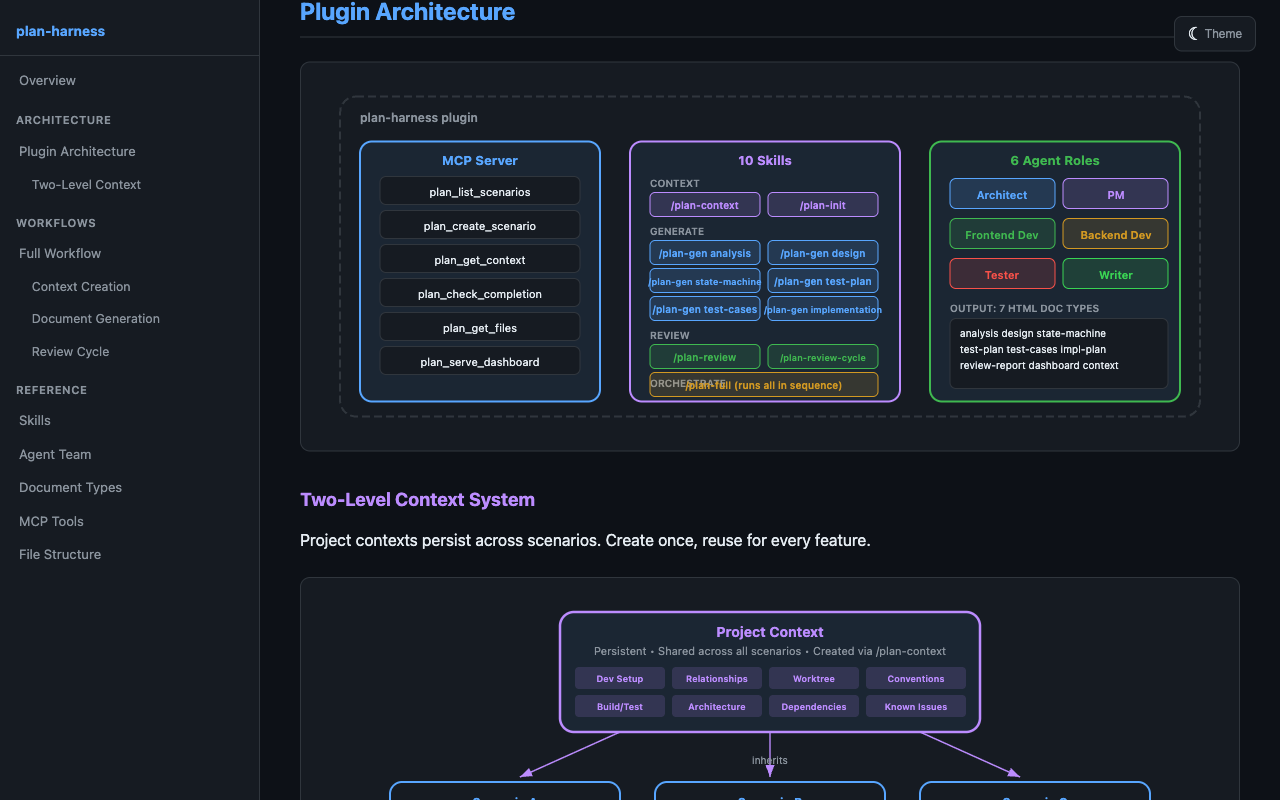
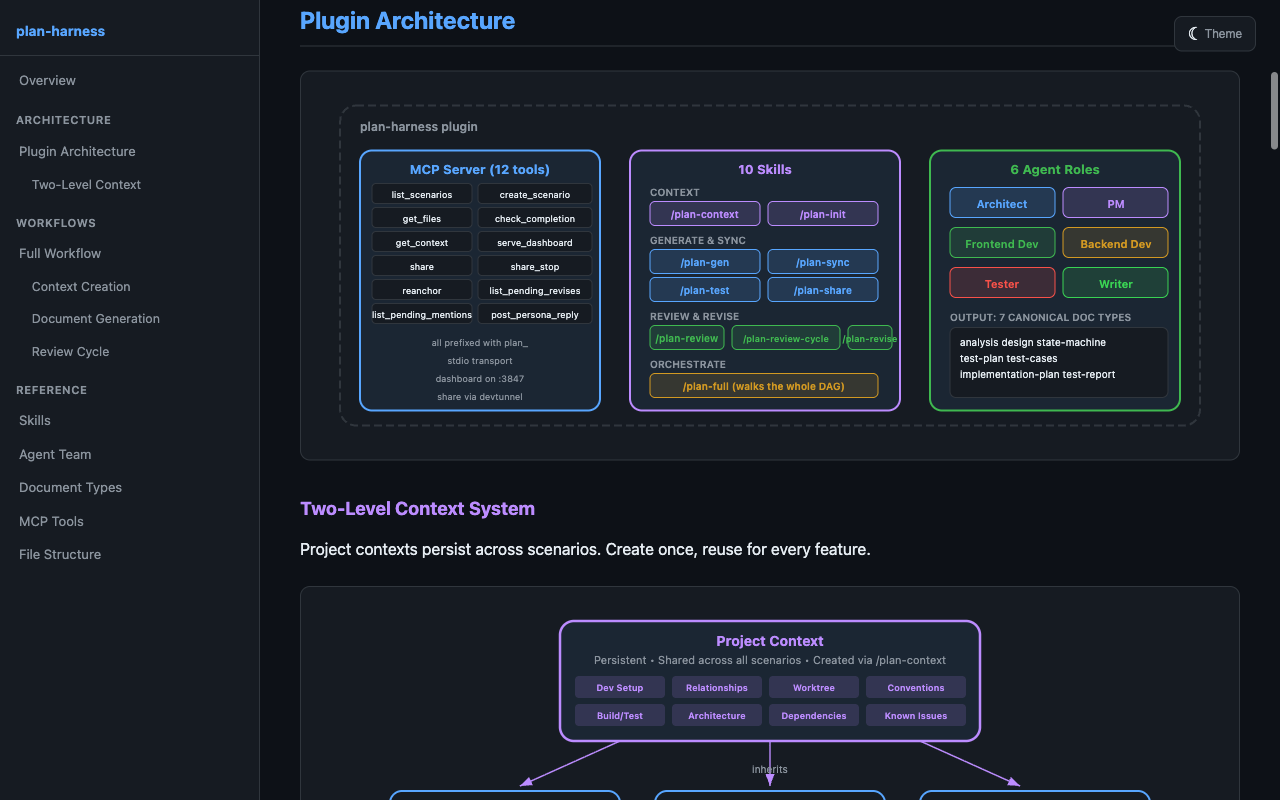
docs: refresh overview.html + context-design.md + screenshots for 1.3.2 (#9)
overview.html was still reflecting the pre-1.3.0 plugin shape — v1.0.0
badge, 6-of-12 MCP tools, 6 per-type /plan-gen skill boxes, a 9-item
list claimed as "7 doc types" with review-report / context / dashboard
mixed in, and the old analysis-as-codebase-tour skill card. Bring it in
line with what actually ships in 1.3.2:

- Version badge → v1.3.2.
- MCP Server box now lists all 12 tools (2-column compact layout).
- 10 Skills box collapsed the 6 per-type /plan-gen entries into the
  unified /plan-gen and added the real 10: /plan-context, /plan-init,
  /plan-gen, /plan-sync, /plan-test, /plan-share, /plan-review,
  /plan-review-cycle, /plan-revise, /plan-full.
- "OUTPUT" block now shows the canonical 7: analysis, design,
  state-machine, test-plan, test-cases, implementation-plan,
  test-report (review-report called out separately as a /plan-review
  side product; dashboard.html is a /plan-full landing page).
- /plan-gen analysis skill card: agents changed from
  Architect+Frontend+Backend+Tester+Writer → PM+Architect+Writer;
  description is the hybrid problem-statement + code-logic walk.
- Phase 2 Document Generation SVG: analysis agents label fixed.
- Document Types SVG + table: dropped `context` node, replaced
  `review-report` terminus with `test-report` (live E2E).
- MCP Tools table expanded from 6 → 12 rows.
- File Structure: added dist/index.js and scripts/dev-dashboard.mjs,
  dropped stale line counts, added comment-manager.js +
  revise-dispatcher.js.

Also:
[…]

diff --git a/docs/overview.html b/docs/overview.html
@@ -128,7 +128,7 @@ body.nav-open .side-nav { transform: translateX(0); }
 <h1>plan-harness</h1>
 <p class="meta">Claude Code Plugin &mdash; Structured Project Planning with Agent Teams<br>
 10 skills &bull; 12 MCP tools &bull; 6 agent roles &bull; 7 document types<br>
-<span class="badge badge-blue">v1.0.0</span> <span class="badge badge-purple">Interactive HTML</span> <span class="badge badge-green">Dark/Light Theme</span></p>
+<span class="badge badge-blue">v1.3.2</span> <span class="badge badge-purple">Interactive HTML</span> <span class="badge badge-green">Dark/Light Theme</span></p>
 
 <!-- ===== SECTION 1: Overview ===== -->
 <h2 id="s1">Overview</h2>
@@ -189,54 +189,68 @@ body.nav-open .side-nav { transform: translateX(0); }
 
   <!-- MCP Server box -->
   <rect x="30" y="55" width="240" height="260" rx="12" fill="var(--glow)" stroke="var(--accent)" stroke-width="2"/>
-  <text x="150" y="78" text-anchor="middle" fill="var(--accent)" font-weight="700" font-size="13">MCP Server</text>
-  <!-- Tools -->
-  <rect x="50" y="90" width="200" height="28" rx="6" fill="var(--svg-node)" stroke="var(--svg-node-stroke)" stroke-width="1"/>
-  <text x="150" y="109" text-anchor="middle" fill="var(--text)" font-size="11">plan_list_scenarios</text>
-  <rect x="50" y="124" width="200" height="28" rx="6" fill="var(--svg-node)" stroke="var(--svg-node-stroke)" stroke-width="1"/>
-  <text x="150" y="143" text-anchor="middle" fill="var(--text)" font-size="11">plan_create_scenario</text>
-  <rect x="50" y="158" width="200" height="28" rx="6" fill="var(--svg-node)" stroke="var(--svg-node-stroke)" stroke-width="1"/>
-  <text x="150" y="177" text-anchor="middle" fill="var(--text)" font-size="11">plan_get_context</text>
-  <rect x="50" y="192" width="200" height="28" rx="6" fill="var(--svg-node)" stroke="var(--svg-node-stroke)" stroke-width="1"/>
-  <text x="150" y="211" text-anchor="middle" fill="var(--text)" font-size="11">plan_check_completion</text>
-  <rect x="50" y="226" width="200" height="28" rx="6" fill="var(--svg-node)" stroke="var(--svg-node-stroke)" stroke-width="1"/>
-  <text x="150" y="245" text-anchor="middle" fill="var(--text)" font-size="11">plan_get_files</text>
-  <rect x="50" y="260" width="200" height="28" rx="6" fill="var(--svg-node)" stroke="var(--svg-node-stroke)" stroke-width="1"/>
-  <text x="150" y="279" text-anchor="middle" fill="var(--text)" font-size="11">plan_serve_dashboard</text>
+  <text x="150" y="78" text-anchor="middle" fill="var(--accent)" font-weight="700" font-size="13">MCP Server (12 tools)</text>
+  <!-- Tools: 2 columns of compact rows -->
+  <rect x="42" y="88" width="100" height="20" rx="4" fill="var(--svg-node)" stroke="var(--svg-node-stroke)" stroke-width="1"/>
+  <text x="92" y="102" text-anchor="middle" fill="var(--text)" font-size="9">list_scenarios</text>
+  <rect x="148" y="88" width="114" height="20" rx="4" fill="var(--svg-node)" stroke="var(--svg-node-stroke)" stroke-width="1"/>
+  <text x="205" y="102" text-anchor="middle" fill="var(--text)" font-size="9">create_scenario</text>
+  <rect x="42" y="112" width="100" height="20" rx="4" fill="var(--svg-node)" stroke="var(--svg-node-stroke)" stroke-width="1"/>
+  <text x="92" y="126" text-anchor="middle" fill="var(--text)" font-size="9">get_files</text>
+  <rect x="148" y="112" width="114" height="20" rx="4" fill="var(--svg-node)" stroke="var(--svg-node-stroke)" stroke-width="1"/>
+  <text x="205" y="126" text-anchor="middle" fill="var(--text)" font-size="9">check_completion</text>
+  <rect x="42" y="136" width="100" height="20" rx="4" fill="var(--svg-node)" stroke="var(--svg-node-stroke)" stroke-width="1"/>
+  <text x="92" y="150" text-anchor="middle" fill="var(--text)" font-size="9">get_context</text>
+  <rect x="148" y="136" width="114" height="20" rx="4" fill="var(--svg-node)" stroke="var(--svg-node-stroke)" stroke-width="1"/>
+  <text x="205" y="150" text-anchor="middle" fill="var(--text)" font-size="9">serve_dashboard</text>
+  <rect x="42" y="160" width="100" height="20" rx="4" fill="var(--svg-node)" stroke="var(--svg-node-stroke)" stroke-width="1"/>
+  <text x="92" y="174" text-anchor="middle" fill="var(--text)" font-size="9">share</text>
+  <rect x="148" y="160" width="114" height="20" rx="4" fill="var(--svg-node)" stroke="var(--svg-node-stroke)" stroke-width="1"/>
+  <text x="205" y="174" text-anchor="middle" fill="var(--text)" font-size="9">share_stop</text>
+  <rect x="42" y="184" width="100" height="20" rx="4" fill="var(--svg-node)" stroke="var(--svg-node-stroke)" stroke-width="1"/>
+  <text x="92" y="198" text-anchor="middle" fill="var(--text)" font-size="9">reanchor</text>
+  <rect x="148" y="184" width="114" height="20" rx="4" fill="var(--svg-node)" stroke="var(--svg-node-stroke)" stroke-width="1"/>
+  <text x="205" y="198" text-anchor="middle" fill="var(--text)" font-size="9">list_pending_revises</text>
+  <rect x="42" y="208" width="100" height="20" rx="4" fill="var(--svg-node)" stroke="var(--svg-node-stroke)" stroke-width="1"/>
+  <text x="92" y="222" text-anchor="middle" fill="var(--text)" font-size="9">list_pending_mentions</text>
+  <rect x="148" y="208" width="114" height="20" rx="4" fill="var(--svg-node)" stroke="var(--svg-node-stroke)" stroke-width="1"/>
+  <text x="205" y="222" text-anchor="middle" fill="var(--text)" font-size="9">post_persona_reply</text>
+  <text x="150" y="250" text-anchor="middle" fill="var(--muted)" font-size="9">all prefixed with plan_</text>
+  <text x="150" y="268" text-anchor="middle" fill="var(--muted)" font-size="9">stdio transport</text>
+  <text x="150" y="286" text-anchor="middle" fill="var(--muted)" font-size="9">dashboard on :3847</text>
+  <text x="150" y="304" text-anchor="middle" fill="var(--muted)" font-size="9">share via devtunnel</text>
 
   <!-- Skills box -->
   <rect x="300" y="55" width="270" height="260" rx="12" fill="var(--glow)" stroke="var(--purple)" stroke-width="2"/>
   <text x="435" y="78" text-anchor="middle" fill="var(--purple)" font-weight="700" font-size="13">10 Skills</text>
-  <!-- Skill groups -->
+
   <text x="320" y="100" fill="var(--muted)" font-size="10" font-weight="600">CONTEXT</text>
   <rect x="320" y="106" width="110" height="24" rx="5" fill="var(--badge-purple-bg)" stroke="var(--purple)" stroke-width="1"/>
   <text x="375" y="122" text-anchor="middle" fill="var(--purple)" font-size="10" font-weight="600">/plan-context</text>
   <rect x="438" y="106" width="110" height="24" rx="5" fill="var(--badge-purple-bg)" stroke="var(--purple)" stroke-width="1"/>
   <text x="493" y="122" text-anchor="middle" fill="var(--purple)" font-size="10" font-weight="600">/plan-init</text>
 
-  <text x="320" y="148" fill="var(--muted)" font-size="10" font-weight="600">GENERATE</text>
+  <text x="320" y="148" fill="var(--muted)" font-size="10" font-weight="600">GENERATE &amp; SYNC</text>
   <rect x="320" y="154" width="110" height="24" rx="5" fill="var(--badge-blue-bg)" stroke="var(--accent)" stroke-width="1"/>
-  <text x="375" y="170" text-anchor="middle" fill="var(--accent)" font-size="10" font-weight="600">/plan-gen analysis</text>
+  <text x="375" y="170" text-anchor="middle" fill="var(--accent)" font-size="10" font-weight="600">/plan-gen</text>
   <rect x="438" y="154" width="110" height="24" rx="5" fill="var(--badge-blue-bg)" stroke="var(--accent)" stroke-width="1"/>
-  <text x="493" y="170" text-anchor="middle" fill="var(--accent)" font-size="10" font-weight="600">/plan-gen design</text>
+  <text x="493" y="170" text-anchor="middle" fill="var(--accent)" font-size="10" font-weight="600">/plan-sync</text>
   <rect x="320" y="182" width="110" height="24" rx="5" fill="var(--badge-blue-bg)" stroke="var(--accent)" stroke-width="1"/>
-  <text x="375" y="198" text-anchor="middle" fill="var(--accent)" font-size="9" font-weight="600">/plan-gen state-machine</text>
+  <text x="375" y="198" text-anchor="middle" fill="var(--accent)" font-size="10" font-weight="600">/plan-test</text>
   <rect x="438" y="182" width="110" height="24" rx="5" fill="var(--badge-blue-bg)" stroke="var(--accent)" stroke-width="1"/>
-  <text x="493" y="198" text-anchor="middle" fill="var(--accent)" font-size="10" font-weight="600">/plan-gen test-plan</text>
-  <rect x="320" y="210" width="110" height="24" rx="5" fill="var(--badge-blue-bg)" stroke="var(--accent)" stroke-width="1"/>
-  <text x="375" y="226" text-anchor="middle" fill="var(--accent)" font-size="10" font-weight="600">/plan-gen test-cases</text>
-  <rect x="438" y="210" width="110" height="24" rx="5" fill="var(--badge-blue-bg)" stroke="var(--accent)" stroke-width="1"/>
-  <text x="493" y="226" text-anchor="middle" fill="var(--accent)" font-size="9" font-weight="600">/plan-gen implementation</text>
+  <text x="493" y="198" text-anchor="middle" fill="var(--accent)" font-size="10" font-weight="600">/plan-share</text>
 
-  <text x="320" y="252" fill="var(--muted)" font-size="10" font-weight="600">REVIEW</text>
-  <rect x="320" y="258" width="110" height="24" rx="5" fill="var(--badge-green-bg)" stroke="var(--green)" stroke-width="1"/>
-  <text x="375" y="274" text-anchor="middle" fill="var(--green)" font-size="10" font-weight="600">/plan-review</text>
-  <rect x="438" y="258" width="110" height="24" rx="5" fill="var(--badge-green-bg)" stroke="var(--green)" stroke-width="1"/>
-  <text x="493" y="274" text-anchor="middle" fill="var(--green)" font-size="9" font-weight="600">/plan-review-cycle</text>
+  <text x="320" y="224" fill="var(--muted)" font-size="10" font-weight="600">REVIEW &amp; REVISE</text>
+  <rect x="320" y="230" width="74" height="24" rx="5" fill="var(--badge-green-bg)" stroke="var(--green)" stroke-width="1"/>
+  <text x="357" y="246" text-anchor="middle" fill="var(--green)" font-size="10" font-weight="600">/plan-review</text>
+  <rect x="402" y="230" width="108" height="24" rx="5" fill="var(--badge-green-bg)" stroke="var(--green)" stroke-width="1"/>
+  <text x="456" y="246" text-anchor="middle" fill="var(--green)" font-size="9" font-weight="600">/plan-review-cycle</text>
+  <rect x="518" y="230" width="44" height="24" rx="5" fill="var(--badge-green-bg)" stroke="var(--green)" stroke-width="1"/>
+  <text x="540" y="246" text-anchor="middle" fill="var(--green)" font-size="9" font-weight="600">/plan-revise</text>
 
-  <text x="320" y="300" fill="var(--muted)" font-size="10" font-weight="600">ORCHESTRATE</text>
-  <rect x="320" y="286" width="228" height="24" rx="5" fill="var(--badge-yellow-bg)" stroke="var(--yellow)" stroke-width="1"/>
-  <text x="434" y="302" text-anchor="middle" fill="var(--yellow)" font-size="10" font-weight="600">/plan-full  (runs all in sequence)</text>
+  <text x="320" y="272" fill="var(--muted)" font-size="10" font-weight="600">ORCHESTRATE</text>
+  <rect x="320" y="278" width="228" height="24" rx="5" fill="var(--badge-yellow-bg)" stroke="var(--yellow)" stroke-width="1"/>
+  <text x="434" y="294" text-anchor="middle" fill="var(--yellow)" font-size="10" font-weight="600">/plan-full  (walks the whole DAG)</text>
 
   <!-- Agent Prompts box -->
   <rect x="600" y="55" width="250" height="260" rx="12" fill="var(--glow)" stroke="var(--green)" stroke-width="2"/>
@@ -256,11 +270,11 @@ body.nav-open .side-nav { transform: translateX(0); }
   <text x="786" y="192" text-anchor="middle" fill="var(--cyan)" font-size="11" font-weight="600">Writer</text>
 
   <!-- Output docs -->
-  <text x="620" y="225" fill="var(--muted)" font-size="10" font-weight="600">OUTPUT: 7 HTML DOC TYPES</text>
+  <text x="620" y="225" fill="var(--muted)" font-size="10" font-weight="600">OUTPUT: 7 CANONICAL DOC TYPES</text>
   <rect x="620" y="232" width="218" height="70" rx="6" fill="var(--svg-node)" stroke="var(--svg-node-stroke)" stroke-width="1"/>
   <text x="630" y="250" fill="var(--text)" font-size="10">analysis  design  state-machine</text>
-  <text x="630" y="266" fill="var(--text)" font-size="10">test-plan  test-cases  impl-plan</text>
-  <text x="630" y="282" fill="var(--text)" font-size="10">review-report  dashboard  context</text>
+  <text x="630" y="266" fill="var(--text)" font-size="10">test-plan  test-cases</text>
+  <text x="630" y="282" fill="var(--text)" font-size="10">implementation-plan  test-report</text>
 </svg>
 </div>
 
@@ -401,7 +415,7 @@ body.nav-open .side-nav { transform: translateX(0); }
   <!-- Analyze -->
   <rect x="310" y="68" width="240" height="46" rx="10" fill="var(--svg-node)" stroke="var(--accent)" stroke-width="2"/>
   <text x="430" y="88" text-anchor="middle" fill="var(--accent)" font-weight="700" font-size="12">/plan-gen analysis</text>
-  <text x="430" y="105" text-anchor="middle" fill="var(--muted)" font-size="10">Architect + Frontend + Backend + Tester + Writer</text>
+  <text x="430" y="105" text-anchor="middle" fill="var(--muted)" font-size="10">PM + Architect + Writer</text>
   <line x1="430" y1="114" x2="430" y2="134" stroke="var(--accent)" stroke-width="2" marker-end="url(#arrow)"/>
 
   <!-- Design -->
@@ -540,8 +554,8 @@ body.nav-open .side-nav { transform: translateX(0); }
   </div>
   <div class="skill-card">
     <h4>/plan-gen analysis</h4>
-    <p>Deep codebase analysis with health scores and recommendations</p>
-    <div class="agents"><span class="agent-badge" style="background:var(--badge-blue-bg);color:var(--accent)">Architect</span><span class="agent-badge" style="background:var(--badge-green-bg);color:var(--green)">Frontend</span><span class="agent-badge" style="background:var(--badge-yellow-bg);color:var(--yellow)">Backend</span><span class="agent-badge" style="background:var(--badge-red-bg);color:var(--red)">Tester</span><span class="agent-badge" style="background:var(--badge-cyan-bg);color:var(--cyan)">Writer</span></div>
+    <p>Problem statement + code-logic walk: current state, pain points (with file/line), root causes</p>
+    <div class="agents"><span class="agent-badge" style="background:var(--badge-purple-bg);color:var(--purple)">PM</span><span class="agent-badge" style="background:var(--badge-blue-bg);color:var(--accent)">Architect</span><span class="agent-badge" style="background:var(--badge-cyan-bg);color:var(--cyan)">Writer</span></div>
   </div>
   <div class="skill-card">
     <h4>/plan-gen design</h4>
@@ -578,10 +592,30 @@ body.nav-open .side-nav { transform: translateX(0); }
     <p>Full review across all documents with cross-document consistency checks</p>
     <div class="agents"><span class="agent-badge" style="background:var(--badge-green-bg);color:var(--green)">All reviewers</span><span class="agent-badge" style="background:var(--badge-yellow-bg);color:var(--yellow)">Consistency checker</span></div>
   </div>
+  <div class="skill-card">
+    <h4>/plan-revise</h4>
+    <p>Batch-dispatch pending revise-intent comments into writer-agent proposals</p>
+    <div class="agents"><span class="agent-badge" style="background:var(--badge-cyan-bg);color:var(--cyan)">Writer</span></div>
+  </div>
+  <div class="skill-card">
+    <h4>/plan-sync</h4>
+    <p>Cascade-regenerate every downstream doc after upstream edits, then verify via test-report</p>
+    <div class="agents"><span class="agent-badge" style="background:var(--badge-blue-bg);color:var(--accent)">Calls /plan-gen in order</span></div>
+  </div>
+  <div class="skill-card">
+    <h4>/plan-test</h4>
+    <p>Run scenarios from <code>test-plan.html</code> via live Playwright MCP (real UI, not synthetic)</p>
+    <div class="agents"><span class="agent-badge" style="background:var(--badge-red-bg);color:var(--red)">Tester</span><span class="agent-badge" style="background:var(--badge-cyan-bg);color:var(--cyan)">Writer</span></div>
+  </div>
+  <div class="skill-card">
+    <h4>/plan-share</h4>
+    <p>Share a plan-set via devtunnel (public / private / password), self-maintained while scenario is live</p>
+    <div class="agents"><span class="agent-badge" style="background:var(--badge-purple-bg);color:var(--purple)">Interactive</span></div>
+  </div>
   <div class="skill-card" style="grid-column: 1 / -1; border-color: var(--yellow);">
     <h4>/plan-full</h4>
-    <p>Orchestrates the complete workflow: init &rarr; analyze &rarr; design &rarr; state-machine &rarr; test-plan &rarr; test-cases &rarr; implementation &rarr; review cycle. With user review checkpoints between each phase.</p>
-    <div class="agents"><span class="agent-badge" style="background:var(--badge-yellow-bg);color:var(--yellow)">All skills in sequence</span></div>
+    <p>Orchestrates the canonical workflow: analysis &rarr; design &rarr; state-machine &rarr; test-plan &rarr; test-cases &rarr; implementation &rarr; (test-report runs separately after code exists). User review checkpoints between each phase.</p>
+    <div class="agents"><span class="agent-badge" style="background:var(--badge-yellow-bg);color:var(--yellow)">All skills in DAG order</span></div>
   </div>
 </div>
 
@@ -645,70 +679,65 @@ body.nav-open .side-nav { transform: translateX(0); }
 
 <div class="diagram-box">
 <svg viewBox="0 0 860 200" width="860" height="200" xmlns="http://www.w3.org/2000/svg">
-  <!-- context -->
-  <rect x="10" y="75" width="100" height="50" rx="8" fill="var(--badge-purple-bg)" stroke="var(--purple)" stroke-width="2"/>
-  <text x="60" y="96" text-anchor="middle" fill="var(--purple)" font-weight="700" font-size="10">context</text>
-  <text x="60" y="112" text-anchor="middle" fill="var(--muted)" font-size="8">.json + .html</text>
-  <line x1="110" y1="100" x2="130" y2="100" stroke="var(--purple)" stroke-width="1.5" marker-end="url(#arrow-purple)"/>
-
   <!-- analysis -->
-  <rect x="130" y="75" width="100" height="50" rx="8" fill="var(--badge-blue-bg)" stroke="var(--accent)" stroke-width="2"/>
-  <text x="180" y="96" text-anchor="middle" fill="var(--accent)" font-weight="700" font-size="10">analysis</text>
-  <text x="180" y="112" text-anchor="middle" fill="var(--muted)" font-size="8">.html</text>
-  <line x1="230" y1="100" x2="250" y2="100" stroke="var(--accent)" stroke-width="1.5" marker-end="url(#arrow)"/>
+  <rect x="10" y="75" width="100" height="50" rx="8" fill="var(--badge-blue-bg)" stroke="var(--accent)" stroke-width="2"/>
+  <text x="60" y="96" text-anchor="middle" fill="var(--accent)" font-weight="700" font-size="10">analysis</text>
+  <text x="60" y="112" text-anchor="middle" fill="var(--muted)" font-size="8">.html</text>
+  <line x1="110" y1="100" x2="130" y2="100" stroke="var(--accent)" stroke-width="1.5" marker-end="url(#arrow)"/>
 
   <!-- design -->
-  <rect x="250" y="75" width="100" height="50" rx="8" fill="var(--badge-blue-bg)" stroke="var(--accent)" stroke-width="2"/>
-  <text x="300" y="96" text-anchor="middle" fill="var(--accent)" font-weight="700" font-size="10">design</text>
-  <text x="300" y="112" text-anchor="middle" fill="var(--muted)" font-size="8">.html</text>
+  <rect x="130" y="75" width="100" height="50" rx="8" fill="var(--badge-blue-bg)" stroke="var(--accent)" stroke-width="2"/>
+  <text x="180" y="96" text-anchor="middle" fill="var(--accent)" font-weight="700" font-size="10">design</text>
+  <text x="180" y="112" text-anchor="middle" fill="var(--muted)" font-size="8">.html</text>
 
   <!-- branch up: state machine -->
-  <line x1="350" y1="85" x2="380" y2="40" stroke="var(--accent)" stroke-width="1.5" marker-end="url(#arrow)"/>
-  <rect x="380" y="15" width="110" height="50" rx="8" fill="var(--badge-blue-bg)" stroke="var(--accent)" stroke-width="2"/>
-  <text x="435" y="36" text-anchor="middle" fill="var(--accent)" font-weight="700" font-size="10">state-machine</text>
-  <text x="435" y="52" text-anchor="middle" fill="var(--muted)" font-size="8">.html</text>
+  <line x1="230" y1="85" x2="260" y2="40" stroke="var(--accent)" stroke-width="1.5" marker-end="url(#arrow)"/>
+  <rect x="260" y="15" width="110" height="50" rx="8" fill="var(--badge-blue-bg)" stroke="var(--accent)" stroke-width="2"/>
+  <text x="315" y="36" text-anchor="middle" fill="var(--accent)" font-weight="700" font-size="10">state-machine</text>
+  <text x="315" y="52" text-anchor="middle" fill="var(--muted)" font-size="8">.html</text>
 
   <!-- branch down: test-plan -->
-  <line x1="350" y1="115" x2="380" y2="155" stroke="var(--accent)" stroke-width="1.5" marker-end="url(#arrow)"/>
-  <rect x="380" y="135" width="110" height="50" rx="8" fill="var(--badge-blue-bg)" stroke="var(--accent)" stroke-width="2"/>
-  <text x="435" y="156" text-anchor="middle" fill="var(--accent)" font-weight="700" font-size="10">test-plan</text>
-  <text x="435" y="172" text-anchor="middle" fill="var(--muted)" font-size="8">.html</text>
-  <line x1="490" y1="160" x2="520" y2="160" stroke="var(--accent)" stroke-width="1.5" marker-end="url(#arrow)"/>
+  <line x1="230" y1="115" x2="260" y2="155" stroke="var(--accent)" stroke-width="1.5" marker-end="url(#arrow)"/>
+  <rect x="260" y="135" width="110" height="50" rx="8" fill="var(--badge-blue-bg)" stroke="var(--accent)" stroke-width="2"/>
+  <text x="315" y="156" text-anchor="middle" fill="var(--accent)" font-weight="700" font-size="10">test-plan</text>
+  <text x="315" y="172" text-anchor="middle" fill="var(--muted)" font-size="8">.html</text>
+  <line x1="370" y1="160" x2="400" y2="160" stroke="var(--accent)" stroke-width="1.5" marker-end="url(#arrow)"/>
 
   <!-- test-cases -->
-  <rect x="520" y="135" width="100" height="50" rx="8" fill="var(--badge-blue-bg)" stroke="var(--accent)" stroke-width="2"/>
-  <text x="570" y="156" text-anchor="middle" fill="var(--accent)" font-weight="700" font-size="10">test-cases</text>
-  <text x="570" y="172" text-anchor="middle" fill="var(--muted)" font-size="8">.html</text>
+  <rect x="400" y="135" width="100" height="50" rx="8" fill="var(--badge-blue-bg)" stroke="var(--accent)" stroke-width="2"/>
+  <text x="450" y="156" text-anchor="middle" fill="var(--accent)" font-weight="700" font-size="10">test-cases</text>
+  <text x="450" y="172" text-anchor="middle" fill="var(--muted)" font-size="8">.html</text>
 
   <!-- merge to implementation -->
-  <line x1="490" y1="40" x2="650" y2="85" stroke="var(--accent)" stroke-width="1.5" marker-end="url(#arrow)"/>
-  <line x1="620" y1="155" x2="650" y2="115" stroke="var(--accent)" stroke-width="1.5" marker-end="url(#arrow)"/>
+  <line x1="370" y1="40" x2="620" y2="85" stroke="var(--accent)" stroke-width="1.5" marker-end="url(#arrow)"/>
+  <line x1="500" y1="160" x2="620" y2="115" stroke="var(--accent)" stroke-width="1.5" marker-end="url(#arrow)"/>
 
   <!-- implementation -->
-  <rect x="650" y="72" width="110" height="55" rx="8" fill="var(--badge-yellow-bg)" stroke="var(--yellow)" stroke-width="2"/>
-  <text x="705" y="93" text-anchor="middle" fill="var(--yellow)" font-weight="700" font-size="9">implementation</text>
-  <text x="705" y="107" text-anchor="middle" fill="var(--yellow)" font-weight="700" font-size="9">-plan</text>
-  <text x="705" y="120" text-anchor="middle" fill="var(--muted)" font-size="8">.html</text>
-  <line x1="760" y1="100" x2="780" y2="100" stroke="var(--green)" stroke-width="1.5" marker-end="url(#arrow-green)"/>
+  <rect x="620" y="72" width="110" height="55" rx="8" fill="var(--badge-yellow-bg)" stroke="var(--yellow)" stroke-width="2"/>
+  <text x="675" y="93" text-anchor="middle" fill="var(--yellow)" font-weight="700" font-size="9">implementation</text>
+  <text x="675" y="107" text-anchor="middle" fill="var(--yellow)" font-weight="700" font-size="9">-plan</text>
+  <text x="675" y="120" text-anchor="middle" fill="var(--muted)" font-size="8">.html</text>
+  <line x1="730" y1="100" x2="750" y2="100" stroke="var(--green)" stroke-width="1.5" marker-end="url(#arrow-green)"/>
 
-  <!-- review-report -->
-  <rect x="780" y="75" width="70" height="50" rx="8" fill="var(--badge-green-bg)" stroke="var(--green)" stroke-width="2"/>
-  <text x="815" y="96" text-anchor="middle" fill="var(--green)" font-weight="700" font-size="9">review</text>
-  <text x="815" y="112" text-anchor="middle" fill="var(--muted)" font-size="8">.html</text>
+  <!-- test-report -->
+  <rect x="750" y="75" width="100" height="50" rx="8" fill="var(--badge-green-bg)" stroke="var(--green)" stroke-width="2"/>
+  <text x="800" y="96" text-anchor="middle" fill="var(--green)" font-weight="700" font-size="10">test-report</text>
+  <text x="800" y="112" text-anchor="middle" fill="var(--muted)" font-size="8">.html (live E2E)</text>
 </svg>
 </div>
 
 <table>
 <tr><th>Document</th><th>Content</th><th>Interactive Features</th></tr>
-<tr><td><code>context.html</code></td><td>Dev setup, project relationships, conventions, known issues</td><td>Copy-to-clipboard commands, searchable</td></tr>
-<tr><td><code>analysis.html</code></td><td>Architecture layers, code patterns, health scores, dependency graph</td><td>SVG diagrams, health score cards</td></tr>
-<tr><td><code>design.html</code></td><td>Data models, API contracts, UX flows, acceptance criteria</td><td>SVG diagrams, collapsible use cases</td></tr>
+<tr><td><code>analysis.html</code></td><td>Problem statement + code-logic walk: current state, problem to solve, pain points (business + code-level with file/line), root causes, impact</td><td>SVG flow diagrams, pain-point tables with anchors</td></tr>
+<tr><td><code>design.html</code></td><td>Data models, API contracts, UX flows, acceptance criteria, architecture SVGs</td><td>SVG diagrams, collapsible use cases</td></tr>
 <tr><td><code>state-machine.html</code></td><td>Entity states, transitions, relationship reference</td><td>SVG state diagrams, step tables</td></tr>
 <tr><td><code>test-plan.html</code></td><td>E2E scenarios with verification steps</td><td>Checkboxes, progress bar, localStorage</td></tr>
 <tr><td><code>test-cases.html</code></td><td>Test cases with P0/P1/P2 priorities by category</td><td>Filter, expand/collapse, bulk ops, export/import</td></tr>
 <tr><td><code>implementation-plan.html</code></td><td>Numbered steps with files, dependencies, test mapping</td><td>Dependency graph SVG, status checkboxes</td></tr>
-<tr><td><code>review-report.html</code></td><td>Consolidated review findings and traceability</td><td>Status badges, coverage matrix</td></tr>
+<tr><td><code>test-report.html</code></td><td>Live E2E run: pass/fail per scenario with screenshot evidence, driven by Playwright MCP</td><td>Status badges, screenshot lightbox, interactive fix-loop</td></tr>
 </table>
+
+<p class="meta" style="margin-top: 0.8em;">Optional side output: <code>review-report.html</code> from <code>/plan-review-cycle</code> (consolidated review findings + cross-doc traceability) and <code>dashboard.html</code> from <code>/plan-full</code> (landing page linking all docs).</p>
 
 <!-- ===== SECTION 7: MCP Tools ===== -->
 <h2 id="s7">MCP Tools</h2>
@@ -721,6 +750,12 @@ body.nav-open .side-nav { transform: translateX(0); }
 <tr><td><code>plan_check_completion</code></td><td><code>scenarioPath</code>, <code>repoRoot</code></td><td>Parse implementation plan, check code for evidence of completion</td></tr>
 <tr><td><code>plan_get_context</code></td><td><code>repoRoot</code></td><td>Analyze codebase: CLAUDE.md, package.json, .csproj &rarr; tech stack, patterns</td></tr>
 <tr><td><code>plan_serve_dashboard</code></td><td><code>workspaceRoot</code>, <code>port?</code></td><td>Start local dashboard at <code>http://localhost:3847</code></td></tr>
+<tr><td><code>plan_share</code></td><td><code>scenarioPath</code>, <code>mode</code> (public / private / password)</td><td>Start a devtunnel for a scenario; returns public URL</td></tr>
+<tr><td><code>plan_share_stop</code></td><td><code>scenarioPath</code></td><td>Stop an active devtunnel</td></tr>
+<tr><td><code>plan_reanchor</code></td><td><code>docPath</code></td><td>Repair drifted W3C-style comment anchors after doc edits</td></tr>
+<tr><td><code>plan_list_pending_revises</code></td><td><code>scenarioPath</code></td><td>List revise-intent comments awaiting a writer-agent proposal</td></tr>
+<tr><td><code>plan_list_pending_mentions</code></td><td><code>scenarioPath</code></td><td>List @-mention comments queued for agent personas</td></tr>
+<tr><td><code>plan_post_persona_reply</code></td><td><code>scenarioPath</code>, <code>docSlug</code>, <code>commentId</code>, <code>persona</code>, <code>body</code></td><td>Post a persona reply to a queued @-mention thread</td></tr>
 </table>
 
 <!-- ===== SECTION 8: File Structure ===== -->
@@ -734,15 +769,19 @@ body.nav-open .side-nav { transform: translateX(0); }
 ├── <span class="file">README.md</span><br>
 ├── <span class="dir">docs/</span><br>
 │&nbsp;&nbsp; └── <span class="file">overview.html</span> <span class="comment">&mdash; this document</span><br>
-├── <span class="dir">local-proxy/</span> <span class="comment">&mdash; MCP server + web dashboard (2,705 lines JS)</span><br>
-│&nbsp;&nbsp; ├── <span class="file">package.json</span> <span class="comment">&mdash; deps: @modelcontextprotocol/sdk</span><br>
-│&nbsp;&nbsp; ├── <span class="file">start.js</span> <span class="comment">&mdash; bootstrap (auto-installs on first run)</span><br>
+├── <span class="dir">local-proxy/</span> <span class="comment">&mdash; MCP server + web dashboard (bundled via esbuild)</span><br>
+│&nbsp;&nbsp; ├── <span class="file">package.json</span> <span class="comment">&mdash; deps: @modelcontextprotocol/sdk + esbuild (dev)</span><br>
+│&nbsp;&nbsp; ├── <span class="file">start.js</span> <span class="comment">&mdash; bootstrap that runs dist/index.js</span><br>
+│&nbsp;&nbsp; ├── <span class="dir">dist/</span><span class="file">index.js</span> <span class="comment">&mdash; committed pre-built bundle (MCP server + web)</span><br>
+│&nbsp;&nbsp; ├── <span class="dir">scripts/</span><span class="file">dev-dashboard.mjs</span> <span class="comment">&mdash; boot dashboard against any workspace (skip MCP)</span><br>
 │&nbsp;&nbsp; └── <span class="dir">src/</span><br>
 │&nbsp;&nbsp;&nbsp;&nbsp;&nbsp; ├── <span class="file">index.js</span> <span class="comment">&mdash; MCP server: 12 tools via stdio</span><br>
-│&nbsp;&nbsp;&nbsp;&nbsp;&nbsp; ├── <span class="file">plan-manager.js</span> <span class="comment">&mdash; plan file CRUD operations (569 lines)</span><br>
-│&nbsp;&nbsp;&nbsp;&nbsp;&nbsp; ├── <span class="file">web-server.js</span> <span class="comment">&mdash; local HTTP dashboard, node:http only (486 lines)</span><br>
+│&nbsp;&nbsp;&nbsp;&nbsp;&nbsp; ├── <span class="file">plan-manager.js</span> <span class="comment">&mdash; plan file operations</span><br>
+│&nbsp;&nbsp;&nbsp;&nbsp;&nbsp; ├── <span class="file">web-server.js</span> <span class="comment">&mdash; local HTTP dashboard + scenario detail</span><br>
+│&nbsp;&nbsp;&nbsp;&nbsp;&nbsp; ├── <span class="file">comment-manager.js</span> <span class="comment">&mdash; W3C-anchor comment store, @-mention queue</span><br>
+│&nbsp;&nbsp;&nbsp;&nbsp;&nbsp; ├── <span class="file">revise-dispatcher.js</span> <span class="comment">&mdash; batch revise-intent &rarr; writer proposals</span><br>
 │&nbsp;&nbsp;&nbsp;&nbsp;&nbsp; └── <span class="dir">templates/</span><br>
-│&nbsp;&nbsp;&nbsp;&nbsp;&nbsp;&nbsp;&nbsp;&nbsp; └── <span class="file">base.js</span> <span class="comment">&mdash; HTML template system: CSS + generators (1,220 lines)</span><br>
+│&nbsp;&nbsp;&nbsp;&nbsp;&nbsp;&nbsp;&nbsp;&nbsp; └── <span class="file">base.js</span> <span class="comment">&mdash; HTML template system: CSS + generators</span><br>
 ├── <span class="dir">skills/</span> <span class="comment">&mdash; 10 skill definitions</span><br>
 │&nbsp;&nbsp; ├── <span class="dir">plan-context/</span><span class="file">SKILL.md</span> <span class="comment">&mdash; persistent project context</span><br>
 │&nbsp;&nbsp; ├── <span class="dir">plan-init/</span><span class="file">SKILL.md</span> <span class="comment">&mdash; select context + scenario</span><br>

diff --git a/docs/context-design.md b/docs/context-design.md
@@ -224,9 +224,9 @@ The plugin ships three generation rule contexts:
 
 | Template | Documents | Best for |
 |----------|-----------|----------|
-| `feature-planning.md` | 7 docs (analysis, design, state-machine, test-plan, test-cases, impl-plan, review) | New features, major refactors |
-| `performance-audit.md` | 4 docs (index, analysis, design, impl-plan) | Performance optimization, resource analysis |
-| `lean.md` | 2 docs (design, impl-plan) | Spikes, prototypes, small changes |
+| `feature-planning.md` | 7 docs (analysis, design, state-machine, test-plan, test-cases, implementation-plan, test-report) | New features, major refactors |
+| `performance-audit.md` | 4 docs (index, analysis, design, implementation-plan) | Performance optimization, resource analysis |
+| `lean.md` | 2 docs (design, implementation-plan) | Spikes, prototypes, small changes |
 
 Plus `_example-project.md` as a template for project-specific contexts.
 
